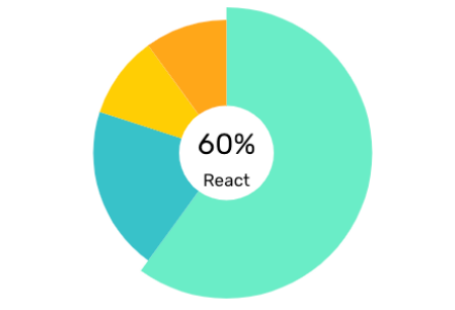
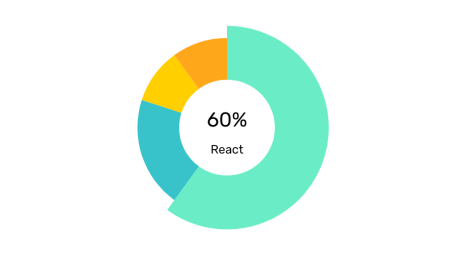
Updating donut image

Changed region(s): [[0.1846, 0.0, 0.8308, 0.9882], [0.3692, 0.4941, 0.4, 0.549]]

diff --git a/src/charts/donut/Readme.md b/src/charts/donut/Readme.md
@@ -21,14 +21,19 @@
   />
 ```
 
-### with hover event
+### with hover event and responsive
 ```js
   const donutData = require('./donutChart.fixtures.js').default;
   const logMouseOver = () => console.log('Mouse Over');
+  const withResponsiveness = require('../helpers/withResponsiveness.js').default;
+  const ResponsiveDonut = withResponsiveness(DonutComponent);
 
-  <DonutComponent
+
+  <ResponsiveDonut
     data={donutData.with4Slices()}
     customMouseOver={logMouseOver}
+    externalRadius={100}
+    internalRadius={47}
   />
 ```
 
